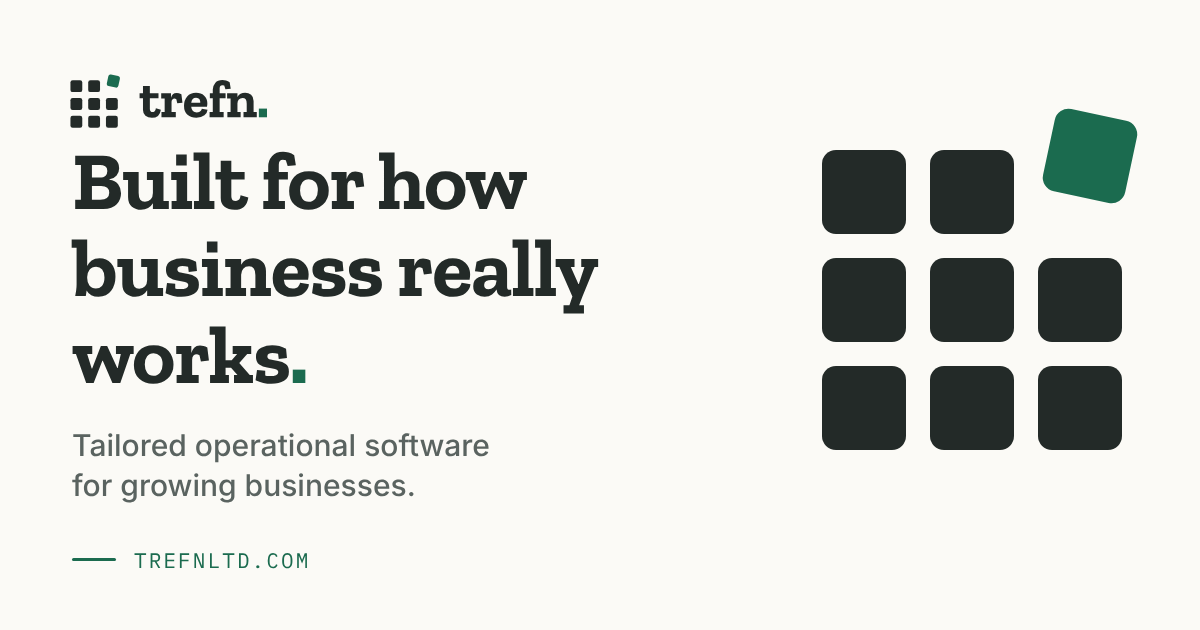
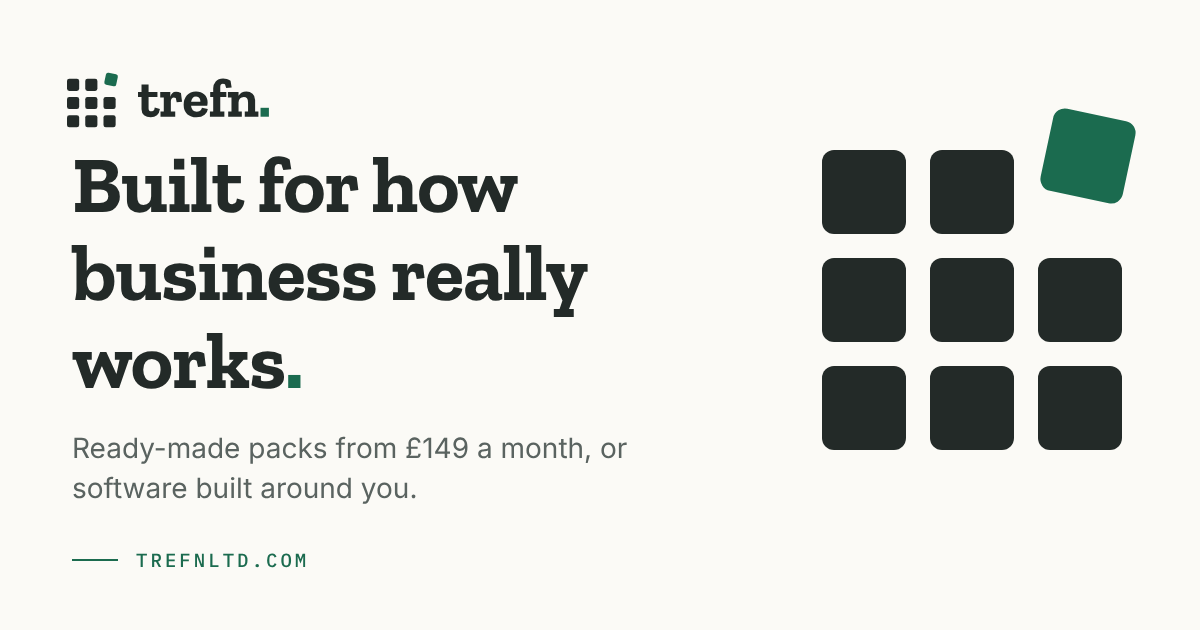
Social preview images for the packs

diff --git a/trial/index.html b/trial/index.html
@@ -6,6 +6,17 @@
 <title>Free 60-day trial - Trefn</title>
 <meta name="description" content="Try Trefn free for 60 days with your own team - Quality, Projects, Sales, Operations and Marketing packs, in your Microsoft 365, on your own data.">
 <link rel="canonical" href="https://trefnltd.com/trial/">
+<meta property="og:type" content="website">
+<meta property="og:url" content="https://trefnltd.com/trial/">
+<meta property="og:site_name" content="Trefn">
+<meta property="og:locale" content="en_GB">
+<meta property="og:title" content="Try Trefn free for 60 days">
+<meta property="og:description" content="Quality, Projects, Sales, Operations and Marketing packs, in your own Microsoft 365, on your own data. Free for 60 days.">
+<meta property="og:image" content="https://trefnltd.com/og-packs.png">
+<meta property="og:image:width" content="1200">
+<meta property="og:image:height" content="630">
+<meta property="og:image:alt" content="Trefn packs - ready-made, in your own Microsoft 365. Quality, Projects, Sales, Operations and Marketing. Free for 60 days, then from £149 a month.">
+<meta name="twitter:card" content="summary_large_image">
 <link rel="icon" href="/favicon.ico" sizes="48x48">
 <link rel="icon" href="/favicon.svg" type="image/svg+xml">
 <link rel="apple-touch-icon" href="/apple-touch-icon.png">

diff --git a/packs/index.html b/packs/index.html
@@ -13,9 +13,10 @@
 <meta property="og:locale" content="en_GB">
 <meta property="og:title" content="Trefn packs - ready-made, in your own Microsoft 365">
 <meta property="og:description" content="Ready-made packs for quality, projects, sales, operations and marketing. They run in your own Microsoft 365, your records stay in your SharePoint, and everyone in the company can use them. Free for 60 days.">
-<meta property="og:image" content="https://trefnltd.com/og-image.png">
+<meta property="og:image" content="https://trefnltd.com/og-packs.png">
 <meta property="og:image:width" content="1200">
 <meta property="og:image:height" content="630">
+<meta property="og:image:alt" content="Trefn packs - ready-made, in your own Microsoft 365. Quality, Projects, Sales, Operations and Marketing. Free for 60 days, then from £149 a month.">
 <meta name="twitter:card" content="summary_large_image">
 <link rel="preconnect" href="https://fonts.googleapis.com">
 <link rel="preconnect" href="https://fonts.gstatic.com" crossorigin>

diff --git a/setup/index.html b/setup/index.html
@@ -13,9 +13,10 @@
 <meta property="og:locale" content="en_GB">
 <meta property="og:title" content="Setting up Trefn">
 <meta property="og:description" content="How to set up Trefn in your Microsoft 365: approve the app, choose a SharePoint site, make the lists, add your trial key and share the link. About 10 minutes.">
-<meta property="og:image" content="https://trefnltd.com/og-image.png">
+<meta property="og:image" content="https://trefnltd.com/og-packs.png">
 <meta property="og:image:width" content="1200">
 <meta property="og:image:height" content="630">
+<meta property="og:image:alt" content="Trefn packs - ready-made, in your own Microsoft 365. Quality, Projects, Sales, Operations and Marketing. Free for 60 days, then from £149 a month.">
 <meta name="twitter:card" content="summary_large_image">
 <link rel="preconnect" href="https://fonts.googleapis.com">
 <link rel="preconnect" href="https://fonts.gstatic.com" crossorigin>

diff --git a/security/index.html b/security/index.html
@@ -13,9 +13,10 @@
 <meta property="og:locale" content="en_GB">
 <meta property="og:title" content="Trefn for IT and security">
 <meta property="og:description" content="For IT teams: where Trefn keeps your data, the three Microsoft permissions it asks for, how the app works, how to tighten it and how to remove it.">
-<meta property="og:image" content="https://trefnltd.com/og-image.png">
+<meta property="og:image" content="https://trefnltd.com/og-packs.png">
 <meta property="og:image:width" content="1200">
 <meta property="og:image:height" content="630">
+<meta property="og:image:alt" content="Trefn packs - ready-made, in your own Microsoft 365. Quality, Projects, Sales, Operations and Marketing. Free for 60 days, then from £149 a month.">
 <meta name="twitter:card" content="summary_large_image">
 <link rel="preconnect" href="https://fonts.googleapis.com">
 <link rel="preconnect" href="https://fonts.gstatic.com" crossorigin>

diff --git a/index.html b/index.html
@@ -15,7 +15,7 @@
 <meta property="og:image" content="https://trefnltd.com/og-image.png">
 <meta property="og:image:width" content="1200">
 <meta property="og:image:height" content="630">
-<meta property="og:image:alt" content="Trefn - Built for how business really works. Tailored operational software for growing businesses.">
+<meta property="og:image:alt" content="Trefn - Built for how business really works. Ready-made packs from £149 a month, or software built around you.">
 <meta name="twitter:card" content="summary_large_image">
 <link rel="canonical" href="https://trefnltd.com/">
 <link rel="preconnect" href="https://fonts.googleapis.com">
